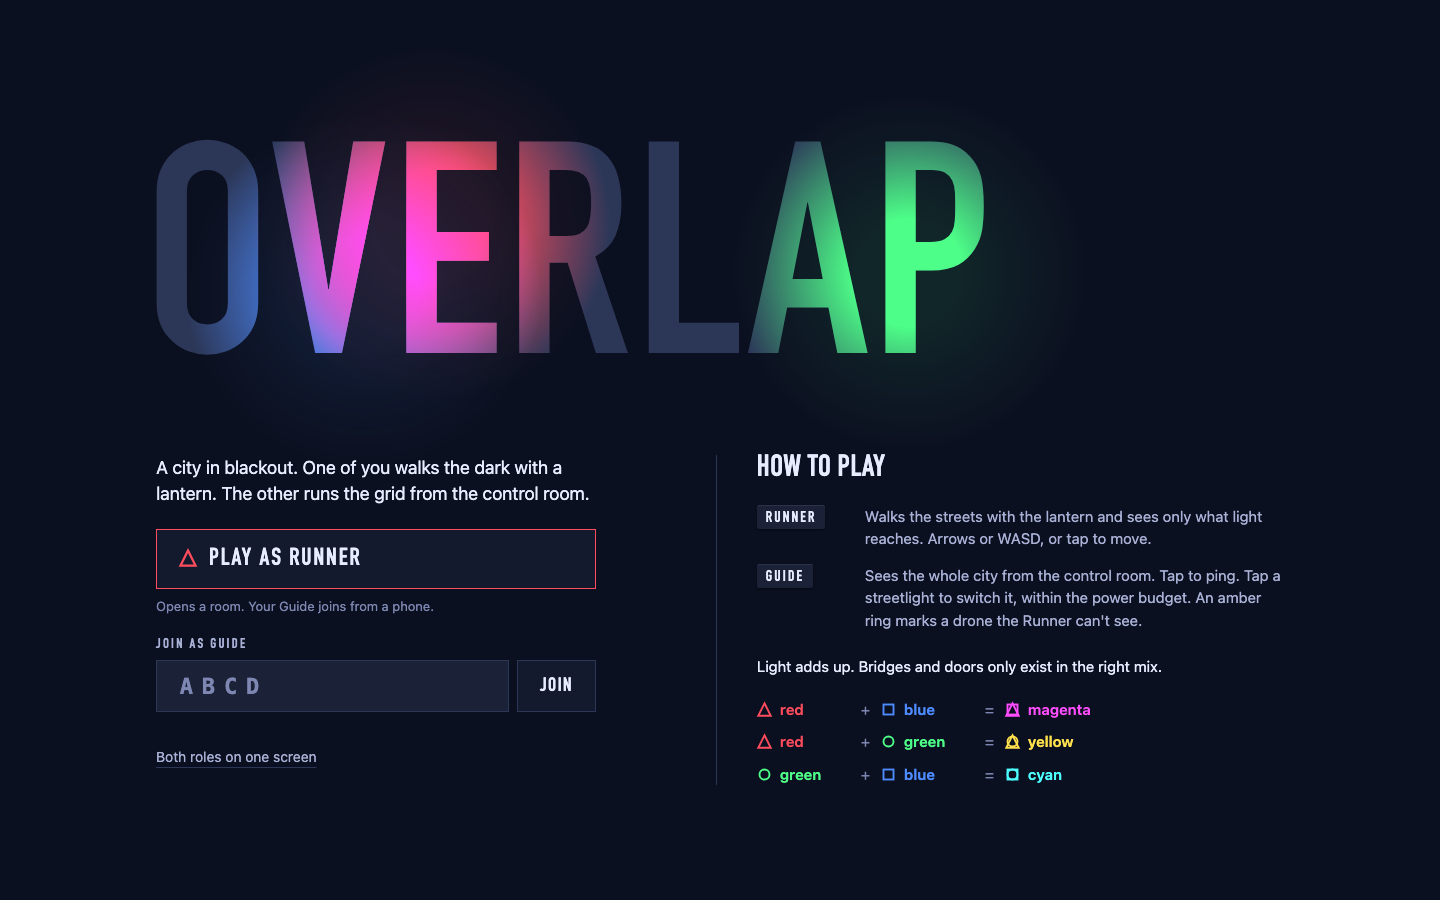
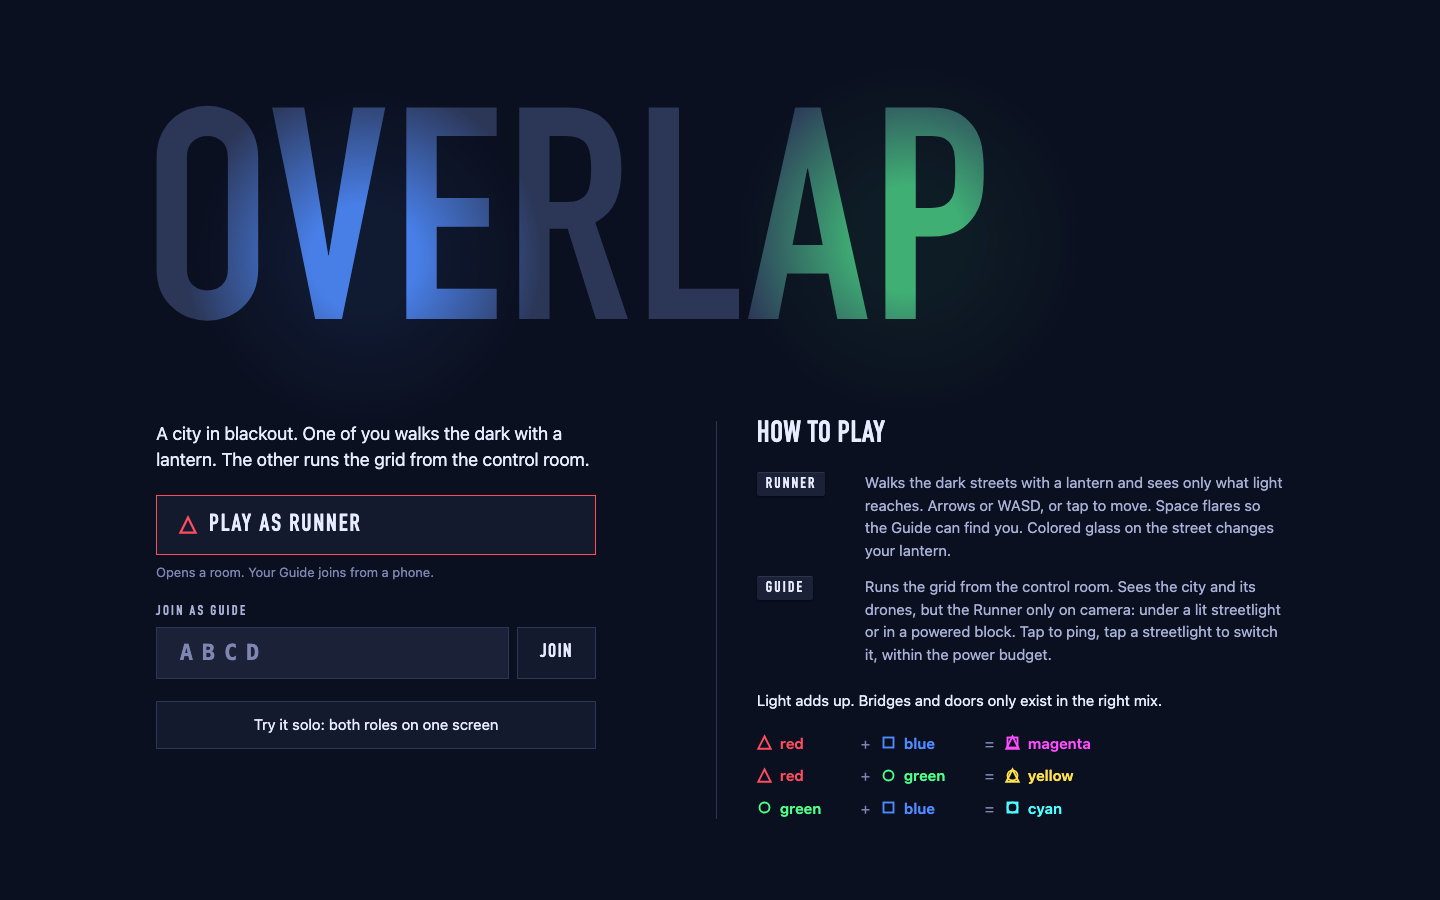
Title: explain cameras, flares and filters; make solo play a real button
Assisted-By: Claude Opus 5.5

diff --git a/src/title.ts b/src/title.ts
@@ -121,15 +121,15 @@ export function showTitle(root: HTMLElement, start: Start): void {
     el("p", { className: "ov-pitch", textContent: "A city in blackout. One of you walks the dark with a lantern. The other runs the grid from the control room." }),
     el("div", { className: "ov-run" }, runnerBtn, el("p", { className: "ov-help", textContent: "Opens a room. Your Guide joins from a phone." })),
     form,
-    el("a", { className: "ov-local", href: "?local=1", textContent: "Both roles on one screen" }),
+    el("a", { className: "ov-local", href: "?local=1", textContent: "Try it solo: both roles on one screen" }),
   );
   actions.setAttribute("aria-label", "Start");
 
   const legend = el("section", { className: "ov-legend" },
     el("h2", { textContent: "How to play" }),
     el("dl", { className: "ov-roles" },
-      el("div", {}, el("dt", {}, tape("Runner")), el("dd", { textContent: "Walks the streets with the lantern and sees only what light reaches. Arrows or WASD, or tap to move." })),
-      el("div", {}, el("dt", {}, tape("Guide")), el("dd", { textContent: "Sees the whole city from the control room. Tap to ping. Tap a streetlight to switch it, within the power budget. An amber ring marks a drone the Runner can't see." })),
+      el("div", {}, el("dt", {}, tape("Runner")), el("dd", { textContent: "Walks the dark streets with a lantern and sees only what light reaches. Arrows or WASD, or tap to move. Space flares so the Guide can find you. Colored glass on the street changes your lantern." })),
+      el("div", {}, el("dt", {}, tape("Guide")), el("dd", { textContent: "Runs the grid from the control room. Sees the city and its drones, but the Runner only on camera: under a lit streetlight or in a powered block. Tap to ping, tap a streetlight to switch it, within the power budget." })),
     ),
     el("p", { className: "ov-rule", textContent: "Light adds up. Bridges and doors only exist in the right mix." }),
     el("ul", { className: "ov-mixes" }, mixRow(R, B), mixRow(R, G), mixRow(G, B)),
@@ -267,9 +267,9 @@ const CSS = `
 .ov-input[aria-invalid=true] { border-color: var(--red); }
 .ov-err { margin: 0; color: var(--red); font-size: 13px; }
 .ov-err:empty { display: none; }
-.ov-local { align-self: flex-start; display: inline-flex; align-items: center; min-height: 44px; color: var(--dim); font-size: 14px;
-  text-decoration: underline; text-decoration-color: var(--edge); text-underline-offset: 5px; text-decoration-thickness: 1px; }
-@media (hover: hover) { .ov-local:hover { color: var(--ink); text-decoration-color: var(--amber); } }
+.ov-local { align-self: stretch; display: inline-flex; align-items: center; justify-content: center; min-height: 48px; padding: 0 18px; box-sizing: border-box;
+  color: var(--ink); font-size: 15px; text-decoration: none; background: var(--street); border: 1px solid var(--edge); transition: border-color .15s ease, background-color .15s ease; }
+@media (hover: hover) { .ov-local:hover { border-color: var(--amber); } }
 
 .ov-tape { display: inline-flex; align-items: center; height: 24px; padding: 2px 9px 0; box-sizing: border-box; border-radius: 2px; background: var(--wall);
   box-shadow: inset 0 1px 0 rgba(232, 236, 255, .09), 0 1px 2px rgba(0, 0, 0, .5);
